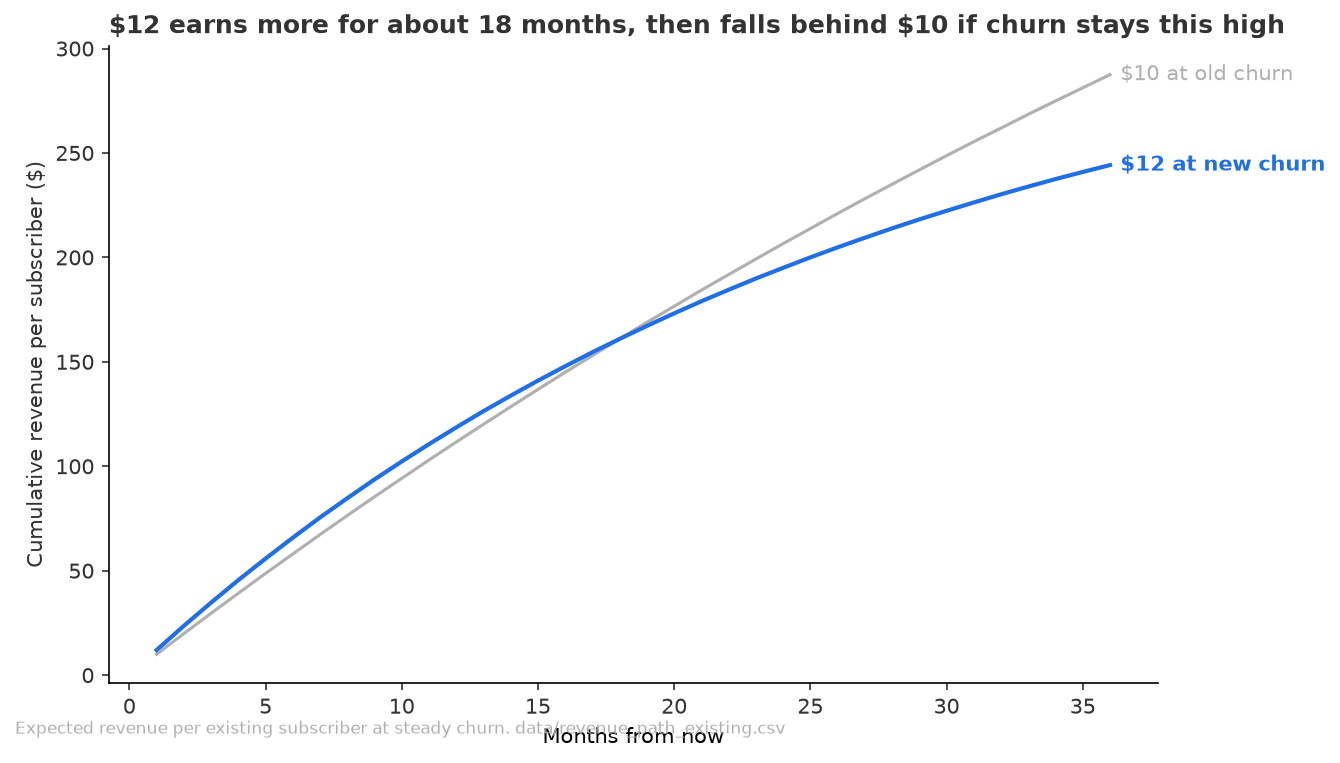
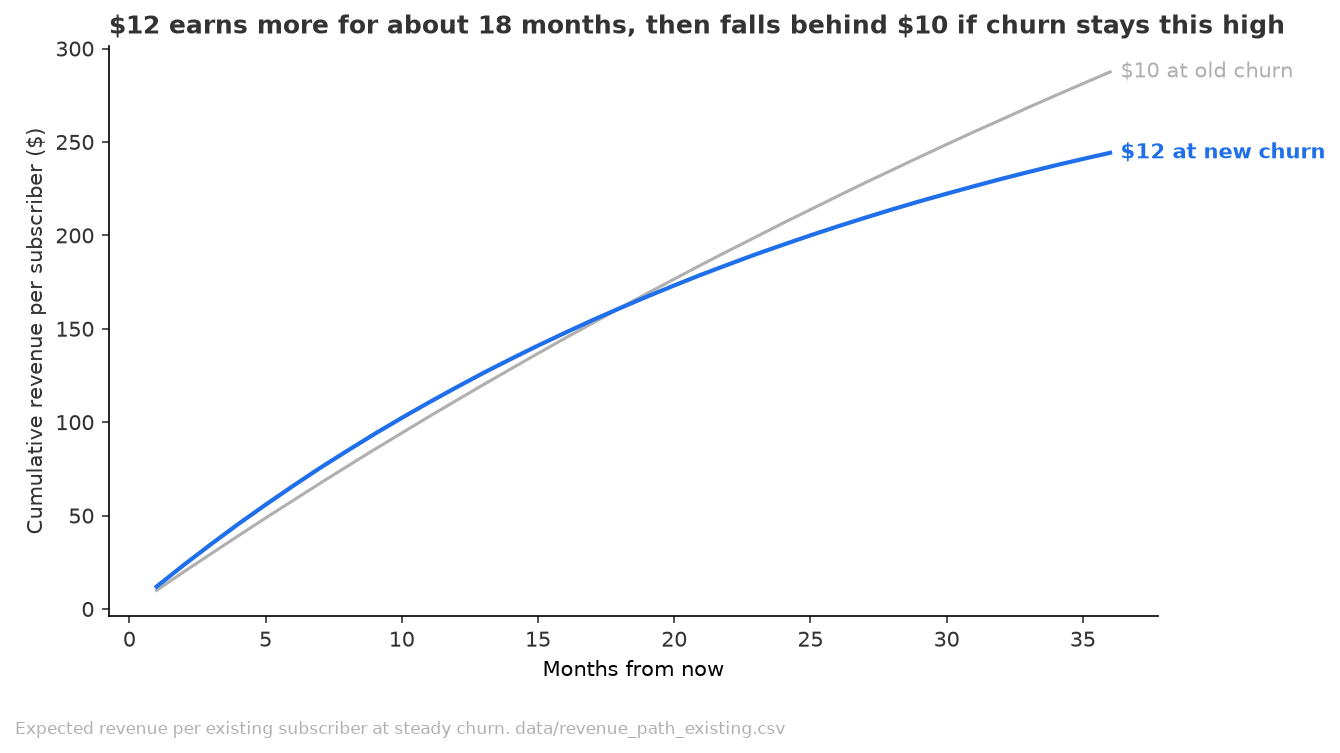
Validate round 2 fixes: latest-month money, flat-span variants, new starts beside existing, chart labels

diff --git a/outputs/2026-11-17_price-increase-retention/analysis.py b/outputs/2026-11-17_price-increase-retention/analysis.py
@@ -221,17 +221,29 @@ group_frames = [(g, cohorts[cohorts["cohort_group"] == g].groupby("due_month", a
     ["renewals_due", "missed_renewals"]].sum()) for g in GROUP_ORDER]
 group_frames.append(("all organic existing", organic_existing.groupby("due_month", as_index=False)[
     ["renewals_due", "missed_renewals"]].sum()))
+# Review round 2 A4: the flat group's edges were picked after seeing the data, so test narrower spans too.
+FLAT_VARIANTS = {"variant: started Jan 2024 to Dec 2024": ("2024-Q1", "2024-Q4"),
+                 "variant: started Jan 2024 to Sep 2024": ("2024-Q1", "2024-Q3")}
+for g, (lo, hi) in FLAT_VARIANTS.items():
+    sub = cohorts[(cohorts["start_quarter"] >= lo) & (cohorts["start_quarter"] <= hi)]
+    group_frames.append((g, sub.groupby("due_month", as_index=False)[["renewals_due", "missed_renewals"]].sum()))
 for g, gm in group_frames:
     b, a = gm[gm["due_month"] < "2026-03-01"], gm[gm["due_month"] >= "2026-03-01"]
     row = compare(b["renewals_due"].sum(), b["missed_renewals"].sum(), a["renewals_due"].sum(), a["missed_renewals"].sum())
     late = gm[gm["due_month"] >= "2026-04-01"]
     late_rate = late["missed_renewals"].sum() / late["renewals_due"].sum()
+    july = gm[gm["due_month"] == "2026-07-01"]
+    july_rate = float(july["missed_renewals"].sum() / july["renewals_due"].sum())
     size = int(gm.loc[gm["due_month"] == "2026-07-01", "renewals_due"].sum())
     obs, cf = observed_vs_counterfactual(gm, row["churn_before"])
     group_rows.append({"cohort_group": g, **row, "churn_apr_jul": late_rate,
                        "above_break_even": row["change_relative"] > BREAK_EVEN_REL,
                        **money(row["churn_before"], row["churn_after"], size),
                        **{f"apr_jul_{k}": v for k, v in money(row["churn_before"], late_rate, size).items()
+                          if k in ("gain_12m_per_subscriber", "gain_12m_group", "months_until_12_falls_behind")},
+                       # Review round 2 A2: the after rate is still moving, so also project from the latest month.
+                       "churn_jul": july_rate,
+                       **{f"jul_{k}": v for k, v in money(row["churn_before"], july_rate, size).items()
                           if k in ("gain_12m_per_subscriber", "gain_12m_group", "months_until_12_falls_behind")},
                        "observed_revenue_mar_jul_at_12": obs, "counterfactual_revenue_mar_jul_at_10": cf,
                        "observed_gain_mar_jul": obs - cf})
@@ -276,6 +288,16 @@ new_start_summary = pd.DataFrame([{
     "gain_12m_year_of_starts": money(ns_before_rate, ns_after_rate, 1)["gain_12m_per_subscriber"] * avg_new_monthly_starts * 12,
     "season_note": "renewals at $10 fell due Dec 2025 to Feb 2026, at $12 Apr to Jul 2026; season is not controlled",
 }])
+# Review round 2 A3: existing subscribers' rise over the same due months, beside the new starts' rise.
+ex_same = organic_existing[organic_existing["due_month"].between("2025-12-01", "2026-02-01")]
+ex_late = organic_existing[organic_existing["due_month"] >= "2026-04-01"]
+ex_row = compare(ex_same["renewals_due"].sum(), ex_same["missed_renewals"].sum(),
+                 ex_late["renewals_due"].sum(), ex_late["missed_renewals"].sum())
+new_start_summary["existing_churn_dec_feb"] = ex_row["churn_before"]
+new_start_summary["existing_churn_apr_jul"] = ex_row["churn_after"]
+new_start_summary["existing_change_relative_same_months"] = ex_row["change_relative"]
+new_start_summary["new_vs_existing_rise_ratio"] = (
+    (1 + new_start_summary["change_relative_standardised"]) / (1 + ex_row["change_relative"]))
 new_start_summary.to_csv(DATA / "new_start_summary.csv", index=False)
 
 # ---------------------------------------------------------------- plan mix and annual reference
@@ -342,20 +364,28 @@ for g in GROUP_ORDER:
     cg_lines[g] = (gm["missed_renewals"] / gm["renewals_due"] * 100).round(2).values
 cg_x = [x for name, x in group_frames if name == GROUP_ORDER[0]][0].sort_values("due_month")["due_month"].dt.strftime("%b %y")
 flat = cohort_summary.set_index("cohort_group").loc["started Jan 2024 to Mar 2025"]
-charts.save(charts.line(
+fig = charts.line(
     cg_x, cg_lines,
     f"Subscribers who started Jan 2024 to Mar 2025 kept churning about {flat['churn_after'] * 100:.1f}% a month; the rest rose",
     highlight="started Jan 2024 to Mar 2025", ylabel="Missed renewals, % of renewals due",
-    source="Organic existing monthly subscribers by start date. sql/churn_by_start_quarter_month.sql"),
-    CHARTS / "churn_by_cohort_group.png")
+    source="Organic existing monthly subscribers by start date. sql/churn_by_start_quarter_month.sql")
+# The two rising groups end at the same July rate, so pull their end labels apart.
+for text in fig.axes[0].texts:
+    if text.get_text() == "started 2022 to 2023":
+        text.xyann = (5, 9)
+    elif text.get_text() == "started Apr 2025 to Feb 2026":
+        text.xyann = (5, -9)
+charts.save(fig, CHARTS / "churn_by_cohort_group.png")
 
+nss = new_start_summary.iloc[0]
 charts.save(charts.line(
     [f"Renewal {n}" for n in shared],
-    {r"Started Nov-Jan at \$10": (before_ns.loc[shared, "churn_rate"] * 100).round(1),
-     r"Started Mar-Jun at \$12": (after_ns.loc[shared, "churn_rate"] * 100).round(1)},
-    r"New subscribers who joined at \$12 churn several times more at the same renewal",
-    highlight=r"Started Mar-Jun at \$12", ylabel="Missed renewals, % of renewals due",
-    source="New monthly starts, no trial record; renewals due in different seasons. sql/new_start_churn_by_renewal.sql"),
+    {r"Started Nov-Jan, \$10, due Dec-Feb": (before_ns.loc[shared, "churn_rate"] * 100).round(1),
+     r"Started Mar-Jun, \$12, due Apr-Jul": (after_ns.loc[shared, "churn_rate"] * 100).round(1)},
+    f"New subscribers' churn rose {1 + nss['change_relative_standardised']:.1f} times between the two cohorts; "
+    f"existing subscribers' rose {1 + nss['existing_change_relative_same_months']:.1f} times over the same months",
+    highlight=r"Started Mar-Jun, \$12, due Apr-Jul", ylabel="Missed renewals, % of renewals due",
+    source="New monthly starts, no trial record; renewals fall due in different seasons. sql/new_start_churn_by_renewal.sql"),
     CHARTS / "new_start_churn_by_renewal.png")
 
 fig = charts.line(
@@ -364,6 +394,7 @@ fig = charts.line(
     highlight=r"\$12 at new churn", ylabel=r"Cumulative revenue per subscriber (\$)",
     source="Expected revenue per existing subscriber at steady churn. data/revenue_path_existing.csv")
 fig.axes[0].set_xlabel("Months from now")
+fig.tight_layout(rect=(0, 0.05, 1, 1))  # leave room between the x label and the source line
 charts.save(fig, CHARTS / "revenue_path_existing.png")
 
 # ---------------------------------------------------------------- report
@@ -378,6 +409,8 @@ print("\nStart cohort groups (organic existing):")
 print(cohort_summary[["cohort_group", "churn_before", "churn_after", "churn_apr_jul", "change_pp", "change_pp_ci_low",
                       "change_pp_ci_high", "change_relative", "group_size", "gain_12m_group", "apr_jul_gain_12m_group",
                       "months_until_12_falls_behind", "observed_gain_mar_jul"]].round(4).to_string(index=False))
+print(cohort_summary[["cohort_group", "churn_jul", "jul_gain_12m_per_subscriber", "jul_gain_12m_group",
+                      "jul_months_until_12_falls_behind"]].round(4).to_string(index=False))
 print("\nAfter-window churn by month and cohort group:")
 print(held.pivot_table(index="due_month", columns="cohort_group", values="churn_rate").round(4).to_string())
 print("\nStart quarters:")
@@ -386,7 +419,8 @@ print("\nNew starts by renewal number:")
 print(ns[["cohort", "renewal_number", "renewals_due", "churn_rate", "ci_low", "ci_high"]].round(4).to_string(index=False))
 print(new_start_summary[["churn_before_standardised", "churn_after_standardised", "change_relative_standardised",
                          "gain_12m_per_subscriber", "new_monthly_starts_per_year", "gain_12m_year_of_starts",
-                         "months_until_12_falls_behind"]].round(4).to_string(index=False))
+                         "months_until_12_falls_behind", "existing_churn_dec_feb", "existing_churn_apr_jul",
+                         "new_vs_existing_rise_ratio"]].round(4).to_string(index=False))
 print("\nNew paid start mix:")
 print(mix_table.round(3).to_string(index=False))
 print("\nAnnual reference:")

diff --git a/outputs/2026-11-17_price-increase-retention/review.md b/outputs/2026-11-17_price-increase-retention/review.md
@@ -1,7 +1,7 @@
 # Review: March 2026 price increase and retention
 
 ## Verdict
-**Think on it**: the numbers rerun exactly and the outcome is recorded the same way throughout, but a start-cohort split the analysis left out picks out a group with no churn rise, which undoes "no group stands out" and needs the user to say why.
+**Think on it**: the round 1 fixes are in and rerun exactly, but the start cohort with no churn rise is still unexplained, and the money call rests on churn rates that have not settled.
 
 ## Data flow
 ```mermaid
@@ -12,55 +12,55 @@ flowchart LR
   J --> R[renewal = charge + 30 days<br/>missed = no next charge<br/>due 2025-11-01 to 2026-07-31]
   R --> DM[churn_by_due_month.csv<br/>47,151 renewals, 1,439 missed]
   R --> SG[churn_by_segment_month.csv<br/>organic existing 38,708 renewals<br/>tenure, region, device]
+  R --> SQ[churn_by_start_quarter_month.csv<br/>151 rows, 38,708 renewals, 1,014 missed]
   R --> NS[new_start_churn_by_renewal.csv<br/>Nov-Jan vs Mar-Jun starts]
   S --> ST[new_paid_starts_by_month.csv]
   S --> AN[annual_churn_by_month.csv]
   DM --> H[headline_churn.csv]
   SG --> SE[churn_by_segment.csv]
-  NS --> NSS[new_start_summary.csv]
-  H --> M[money_at_stake.csv<br/>revenue_path_existing.csv]
+  SQ --> CQ[churn_by_start_quarter.csv]
+  SQ --> CG[cohort groups A1 A4<br/>churn_by_cohort_group.csv<br/>churn_after_by_month_cohort_group.csv]
+  NS --> NSS[new_start_summary.csv A3]
+  H --> M[money_at_stake.csv A2<br/>revenue_path_existing.csv]
+  CG --> M
   NSS --> M
   ST --> MX[new_paid_start_mix.csv]
   AN --> AR[annual_reference.csv]
   DM --> C1c[churn_by_due_month.png]
   SE --> C2c[churn_rise_by_segment.png]
-  NSS --> C3c[new_start_churn_by_renewal.png]
-  M --> C4c[revenue_path_existing.png]
-  SG:::issue
-  SE:::issue
-  C2c:::issue
-  M:::issue
-  C4c:::issue
+  CG --> C5c[churn_by_cohort_group.png C1]
+  NSS --> C3c[new_start_churn_by_renewal.png A3]
+  M --> C4c[revenue_path_existing.png C1]
+  CG:::issue
   NSS:::issue
-  SG -.- A1A2[A1, A2]
-  M -.- A3[A3]
-  NSS -.- A4[A4]
-  C4c -.- C1[C1]
-  C2c -.- C1
+  M:::issue
+  C5c:::issue
+  C3c:::issue
+  C4c:::issue
   classDef issue fill:#fde2e2
 ```
 
 ## Code review
-- **C1 Small fix** Dollar signs in chart text render as matplotlib math: the revenue path title reads "12earnsmore...10" in italics and the segment chart's source line reads "10to12"; the revenue chart's x axis also has no label. Where: analysis.py:256, analysis.py:270. Fix: escape "$" as "\$" in chart strings and label the x axis "Months since renewal".
+- **C1 Small fix** In the cohort chart the two grey end labels ("started 2022 to 2023", "started Apr 2025 to Feb 2026") print on top of each other because both lines end at the same July rate, so a reader cannot tell the rising groups apart; in the revenue path chart the x axis label collides with the source line. Where: analysis.py:345-350, analysis.py:361-367. Fix: give the two grey lines distinct labels or an offset, and leave room between the x label and the source line.
 
 ## Analysis review
-- **A1 Needs the user** Existing subscribers who started January 2024 to March 2025 show no churn rise (about 1.3% a month before and after, steady by `stable_over_time`), while those who started before 2024 or from April 2025 go from about 1.3% to about 6% and hold there; every one of them paid $12, and nothing in the data explains a boundary set by start date. Where: start-cohort check in this review, against churn_by_segment.csv. Fix: ask the user what was different for people who joined in that span (a price-lock promise, a partner or channel, an offer), since it decides whether this group is a real lever and whether it can act as a control for season.
-- **A2 Small fix** The frame names start cohort as a split, but existing subscribers are split only by tenure band, region and device; tenure bands cut across the start-date boundary in A1, so the 12 to 24 months band merely looks mildest (+71%) and the chart title "no group stands out for a rollback" does not hold. Where: sql/churn_by_segment_month.sql, analysis.py:254. Fix: add start quarter (or start half-year) as a dimension for existing subscribers, with intervals and money at stake per cohort, and rewrite the segment chart title from the result.
-- **A3 Small fix** The call rests on a steady-churn projection whose two horizons point opposite ways (12-month gain +$7 per existing subscriber, lifetime $333 at $12 against $751 at $10), and the projected rate is the pooled Mar to Jul rate, which mixes a flat group with one at about 6% and includes March, where the first $12 renewal showed no rise. Where: money_at_stake.csv, analysis.py:221-238. Fix: per cohort group from A2, show that the after rate has held month by month (Apr to Jul), show observed Mar to Jul revenue against the $10 counterfactual next to the projection, and treat a rollback call as tentative if they still disagree.
-- **A4 Small fix** New-start money covers one month's cohort (195 subscribers), not the whole group over a stated period, and the new-start comparison sets renewals due Dec to Feb against renewals due Apr to Jul (different season), with renewal 3 at $10 resting on 142 renewals. Where: new_start_summary.csv, analysis.py:198. Fix: size new-start money for a year of new starts, add confidence intervals per renewal number, and name the season difference next to the result.
-- **A5 Note** Season cannot be separated by a year-ago baseline (frame open question), though the flat cohort in A1 may serve as a same-season control once the user explains it; annual reference churn is flat (0.42% to 0.41% a month) but rests on 5 anniversary churners, so it is weak as a control; the 2025-09-17 block is shown apart and rises too; new paid start mix is steady (annual share 24% to 25%, about 195 to 198 monthly starts a month, region mix shifts a few points toward EU and India).
+- **A1 Needs the user** (open from round 1) Existing subscribers who started January 2024 to March 2025 still show no churn rise (1.3% before, 1.5% after, interval on the change crosses zero), while those who started before 2024 or from April 2025 rise to about 4% to 6%; all paid $12 and nothing in the data explains a boundary set by start date, and no answer is recorded yet. Where: churn_by_cohort_group.csv. Fix: ask the user what was different for people who joined in that span (a price-lock promise, a partner or channel, an offer); it decides whether the rollback targets everyone outside that group and whether it can serve as a same-season control.
+- **A2 Small fix** The after-window churn the money rests on has not settled: the 2022 to 2023 starters climb every month (2.8% in April to 6.2% in July) while the April 2025 to February 2026 starters peaked in May and are falling, so a steady-rate projection from the Mar to Jul or Apr to Jul average can be off in either direction, and the three horizons already disagree (observed Mar to Jul gain positive for every group, 12-month gain negative for two groups at the Apr to Jul rate, lifetime negative). Where: churn_after_by_month_cohort_group.csv, churn_by_cohort_group.csv, analysis.py:219-237. Fix: per cohort group, add the money at stake under the latest month's rate next to the averaged ones, state that the rate is still moving, and keep any rollback call tentative.
+- **A3 Small fix** The new-start comparison sets renewals due Dec to Feb at $10 against renewals due Apr to Jul at $12, the same months existing subscribers' churn jumped for reasons that A1 shows were not uniform, so the gap mixes price with whatever moved churn in Apr to Jul; the season note names this, but the chart title still credits the price and says "several times more" though renewal 3 is about twice. Where: new_start_churn_by_renewal.png, new_start_summary.csv, analysis.py:352-359. Fix: set the new starts' rise beside existing subscribers' rise over the same due months, and retitle the chart from that result without a causal claim.
+- **A4 Small fix** The flat group's boundaries were picked after seeing the data, and its last quarter does not fit it: 2025-Q1 starters rose +67% relative, above the 20% break-even line, as did 2024-Q4 (+26%). Where: churn_by_start_quarter.csv, analysis.py:182-187. Fix: show the per-quarter rises next to the group result and check the group with and without 2025-Q1, so the claim names the span that is actually flat.
+- **A5 Note** Season still cannot be separated by a year-ago baseline; annual reference churn is flat but rests on about 5 anniversary churners; the 2025-09-17 block rises too; new paid start mix is steady; the observed Mar to Jul window (5 months) is shorter than every crossover point (11 months or more), so the positive observed gain cannot test the long-run loss; the segment chart and the revenue path chart still pool the cohort groups that A1 separates.
 
 ## Checked
-- Rerun: all 10 queries rerun and all 20 result files match; the script's 9 checks pass; joins do not fan out and the trial exclusion removes nobody.
-- Dates and windows: analysis date 2026-09-24 from payments and users per index.yaml; renewals due 2025-11-01 to 2026-07-31, all decided by the analysis date; before (4 months, Nov to Feb) and after (5 months, Mar to Jul) differ in season, which the frame names but does not resolve.
-- Source data (Act 6): charge gaps are exactly 30 days and every missed renewal has an end date in every month, so the outcome is recorded the same way throughout; the April 2026 step shows in every payment method but vanishes in the January 2024 to March 2025 start cohorts, so it is behaviour or mix, not a recording break.
-- Price charged: every monthly charge is $10 before 2026-03-01 and $12 after, for every start year, so no cohort was grandfathered.
-- Fit to frame: question, population, break-even line, money at stake and plan-mix check are covered; start cohort for existing subscribers is not (A2).
+- Recheck: C1 (dollar signs, axis label) fixed; A2 fixed (start quarter split added, segment title rewritten); A3 fixed in part (month-by-month rates and observed revenue added; the unsettled rate is now A2); A4 fixed (year of new starts, intervals per renewal, season named); A1 still open.
+- Rerun: the new query `churn_by_start_quarter_month` rerun (151 rows), the other 10 inputs unchanged since round 1; a copy of the script reproduces all 24 result files; 10 of 10 checks pass and start quarters add back to 38,708 renewals and 1,014 missed.
+- Dates and windows: unchanged since round 1; analysis date 2026-09-24, renewals due 2025-11-01 to 2026-07-31 all decided; before (4 months) and after (5 months) differ in season, named but not resolved.
+- Source data (Act 6): outcome fields not retested, since no fix touched them; start_date, now a split, carries midnight times through 2025-Q3 and real times from 2025-Q4, a boundary that does not match the flat cohort, so that cohort is not a recording artefact of start_date.
+- All five charts opened; titles match their results apart from C1 and A3.
 
 ## Not checked
-- Engagement (sessions) of churners before and after March, as another explanation for the rise; not a field check, and the user knows of no other change.
+- Why the January 2024 to March 2025 starters did not react; only the user can say (A1).
+- Engagement (sessions) of churners before and after March, as another explanation for the rise; not a field check.
 - Whether the 235 paid 2025-09-17 subscriptions with no payments would change the block result; they cannot enter the renewal measure.
-- Medians of the end-date gap by month with `stable_over_time` kind median; the share checks and raw medians (13.5 to 19.5 days) showed no step.
 
 ## Proposed quirks
-- **Price rise skipped 2024 to early 2025 starters.** Monthly subscribers who started January 2024 to March 2025 show no churn rise after the March 2026 price increase (about 1.3% of renewals missed a month before and after), while earlier and later starters rise from about 1.3% to about 6% from April 2026; all paid $12. Unexplained; split existing subscribers by start cohort in any churn comparison across March 2026.
+- **Price rise skipped 2024 to early 2025 starters.** Monthly subscribers who started January 2024 to March 2025 show no churn rise after the March 2026 price increase (about 1.3% to 1.5% of renewals missed a month before and after), while earlier and later starters rise from about 1.3% to 4% to 6% from April 2026; all paid $12. Unexplained; split existing subscribers by start cohort in any churn comparison across March 2026.
